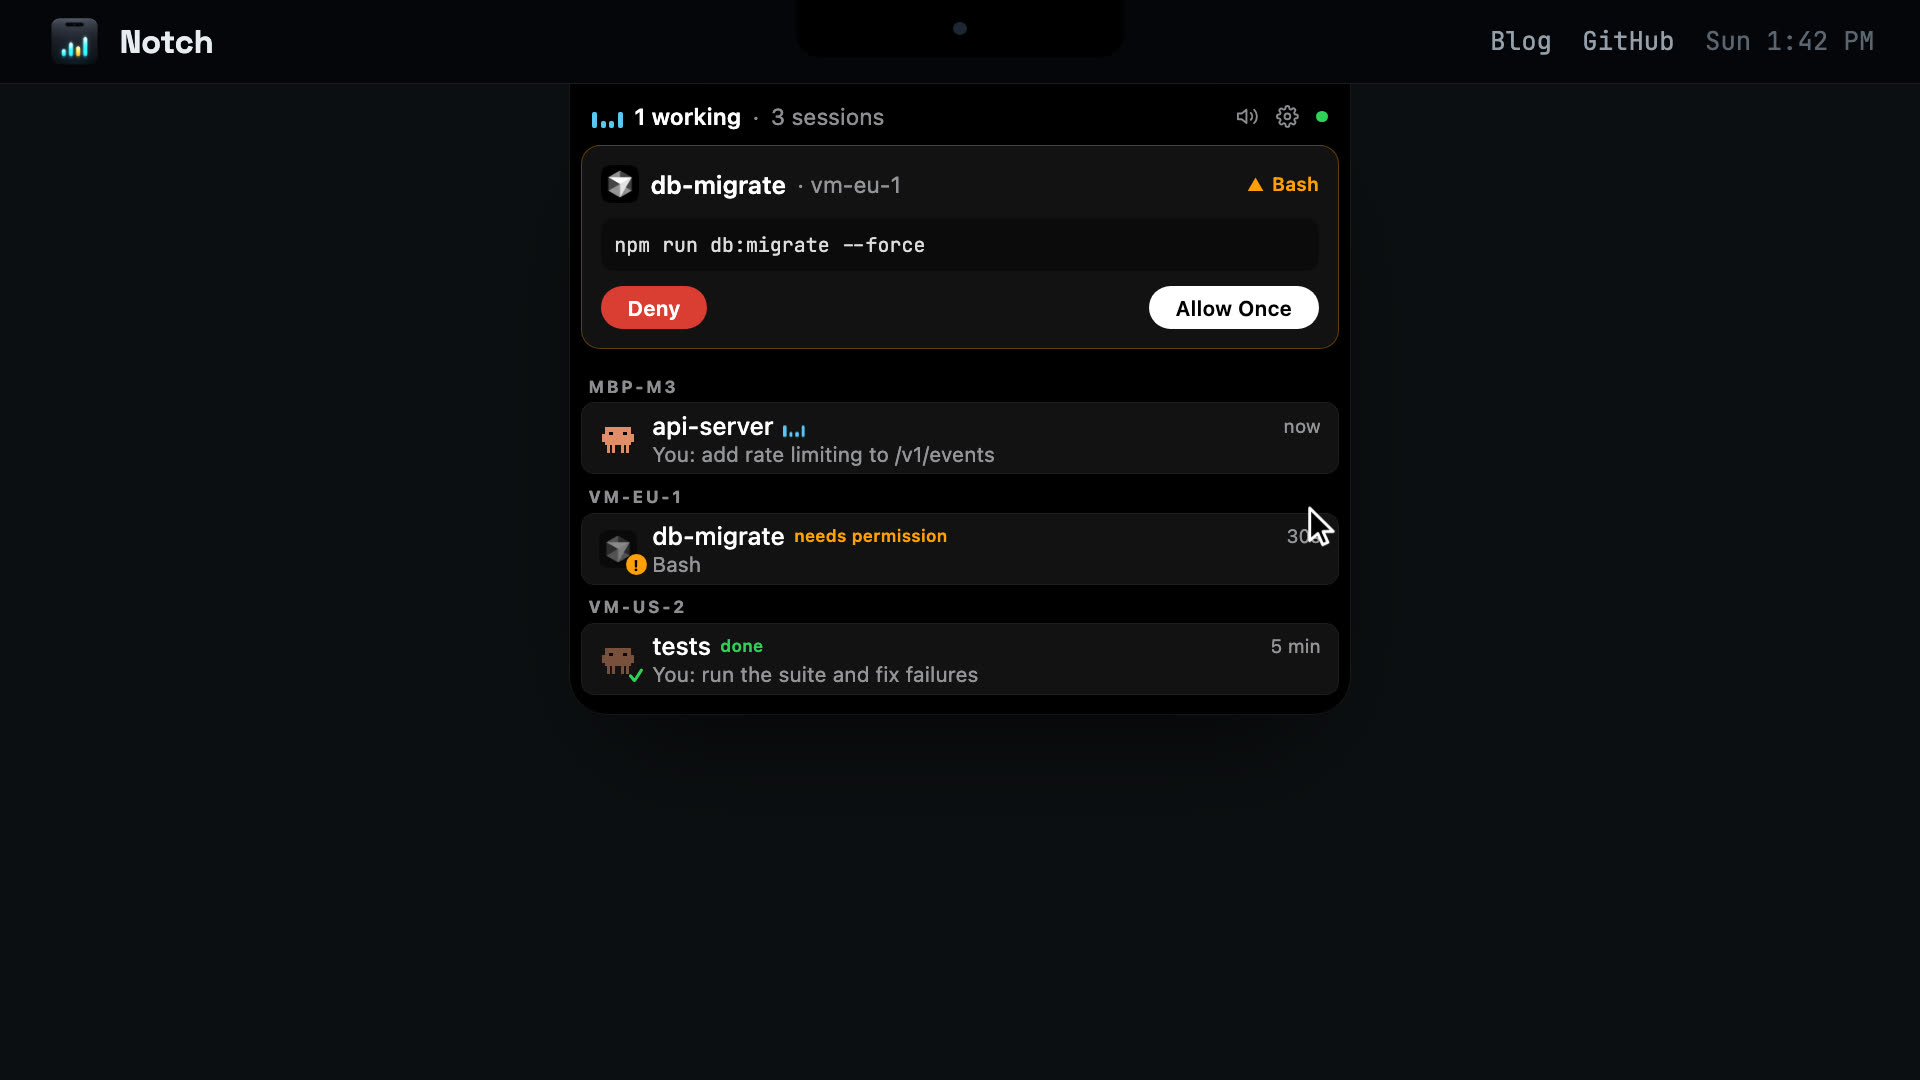
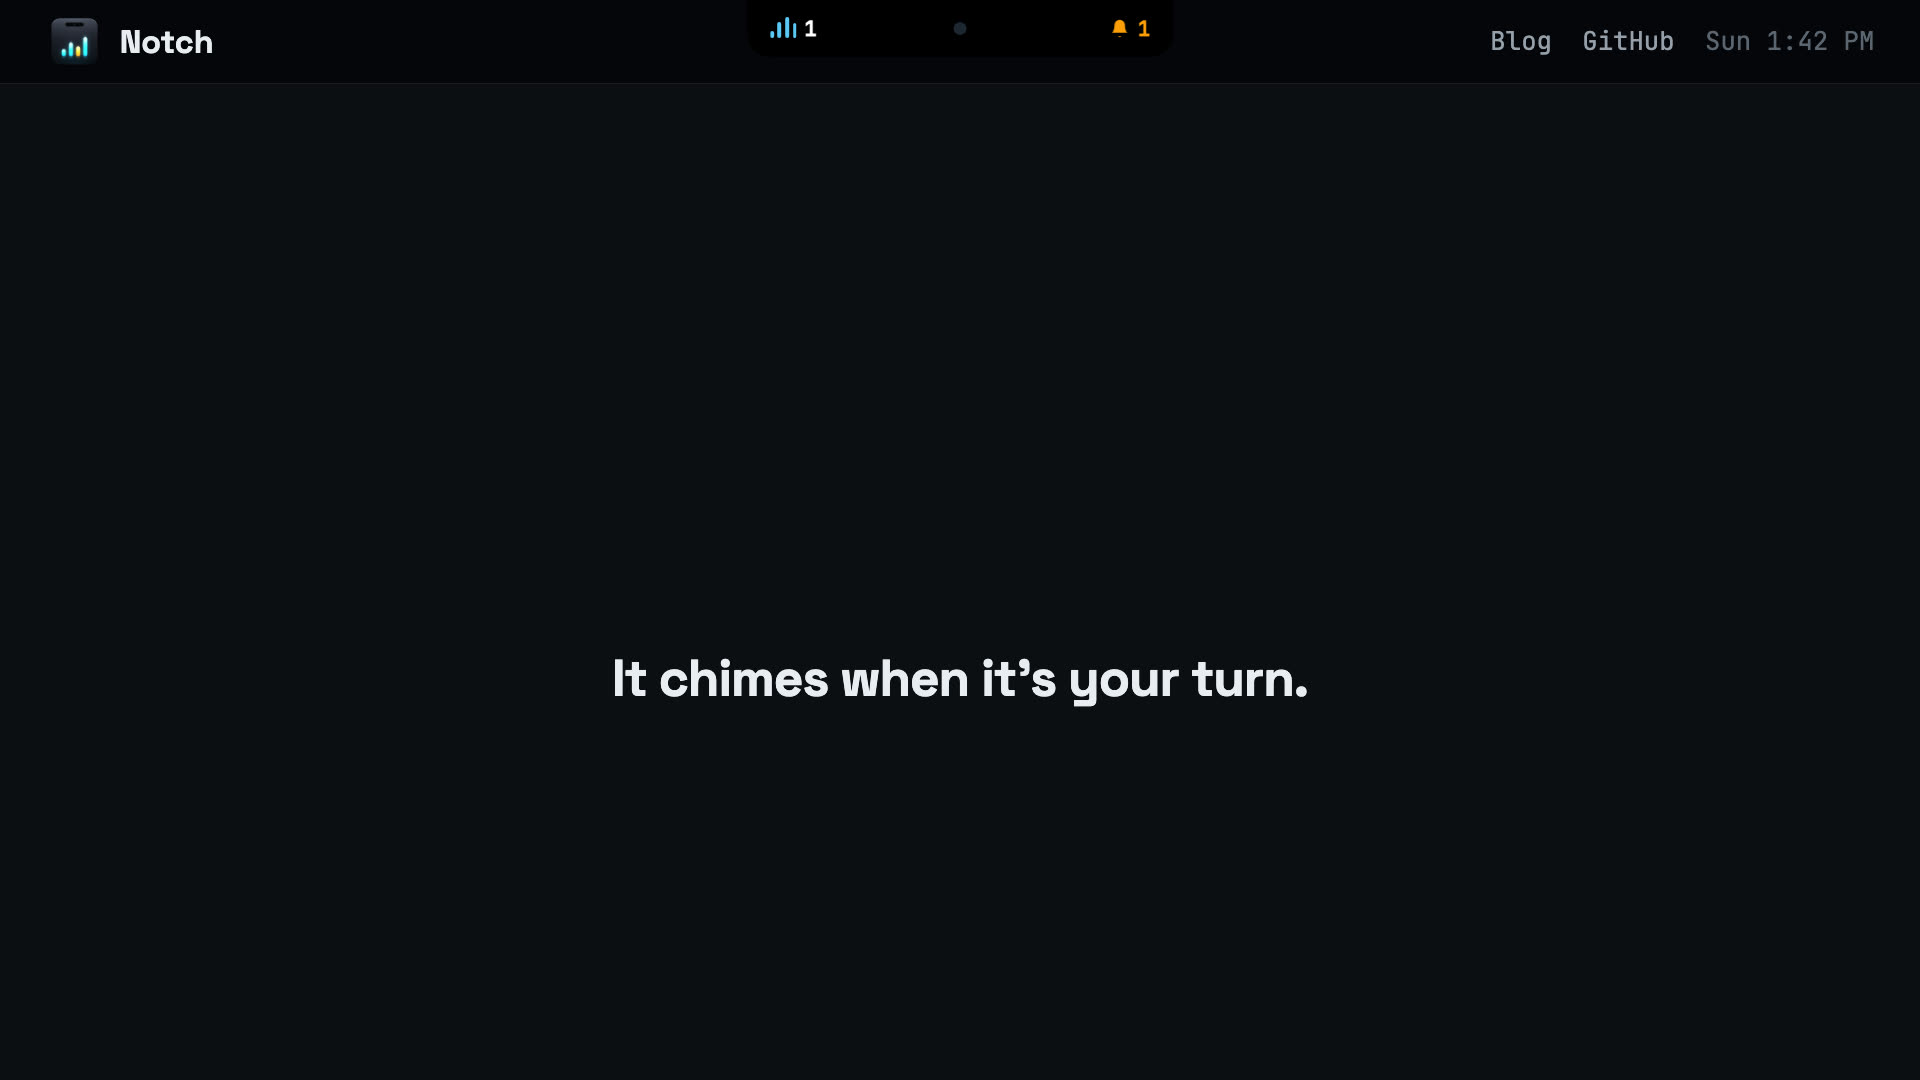
Fix Netlify build: replace calc() length division with tan(atan2()) for hero scale; update demo media

diff --git a/source/_assets/sass/main.scss b/source/_assets/sass/main.scss
@@ -645,7 +645,9 @@ body.ld-open .ld-nc {
 // on its display, so the first thing a visitor sees IS the app in place.
 // The whole machine scales proportionally: design width 680px (base 780px).
 .ld-mac-wrap {
-  --ms: min(1, calc((100vw - 32px) / 800px));
+  // tan(atan2(y, x)) = y/x as a unitless number; calc() can't divide two
+  // lengths (postcss-calc rejects it, and browser support is newer than trig).
+  --ms: min(1, tan(atan2(100vw - 32px, 800px)));
   height: calc(476px * var(--ms));
   margin: var(--s-4) 0 0;
   display: flex;